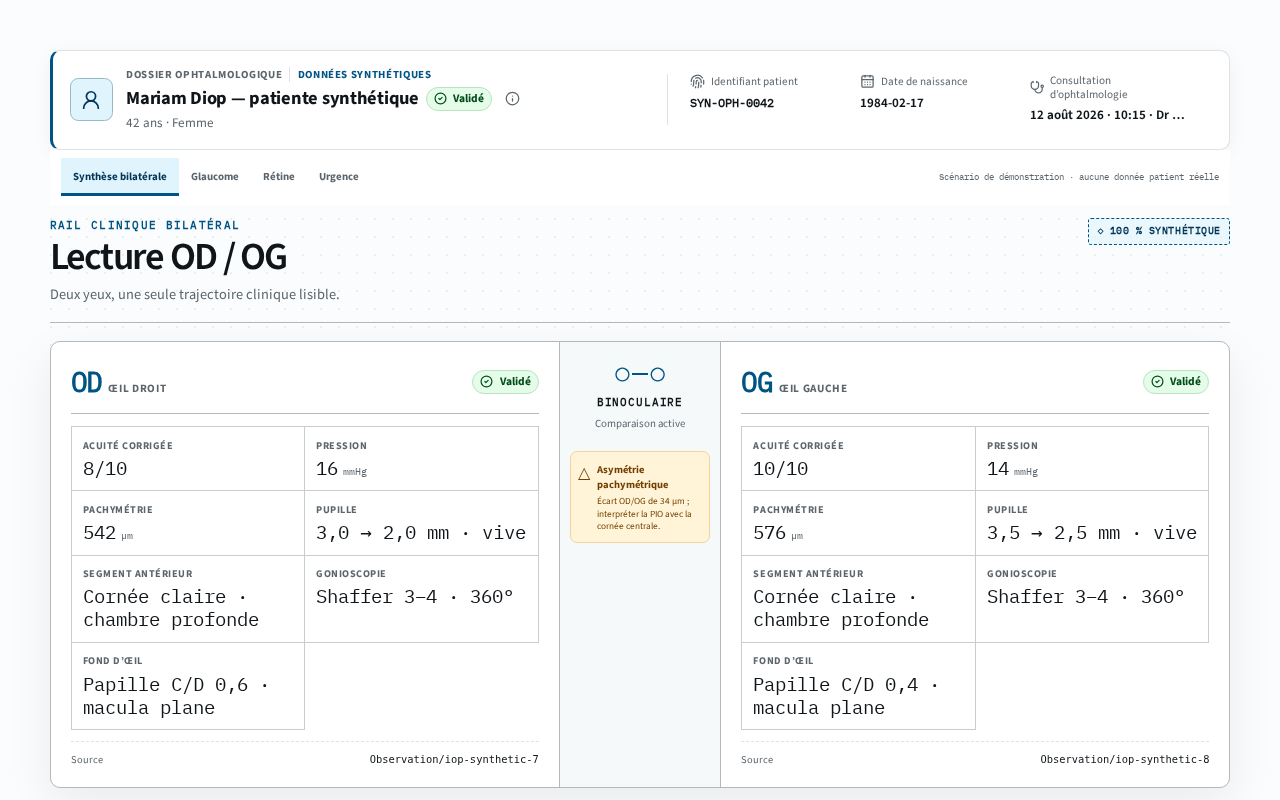
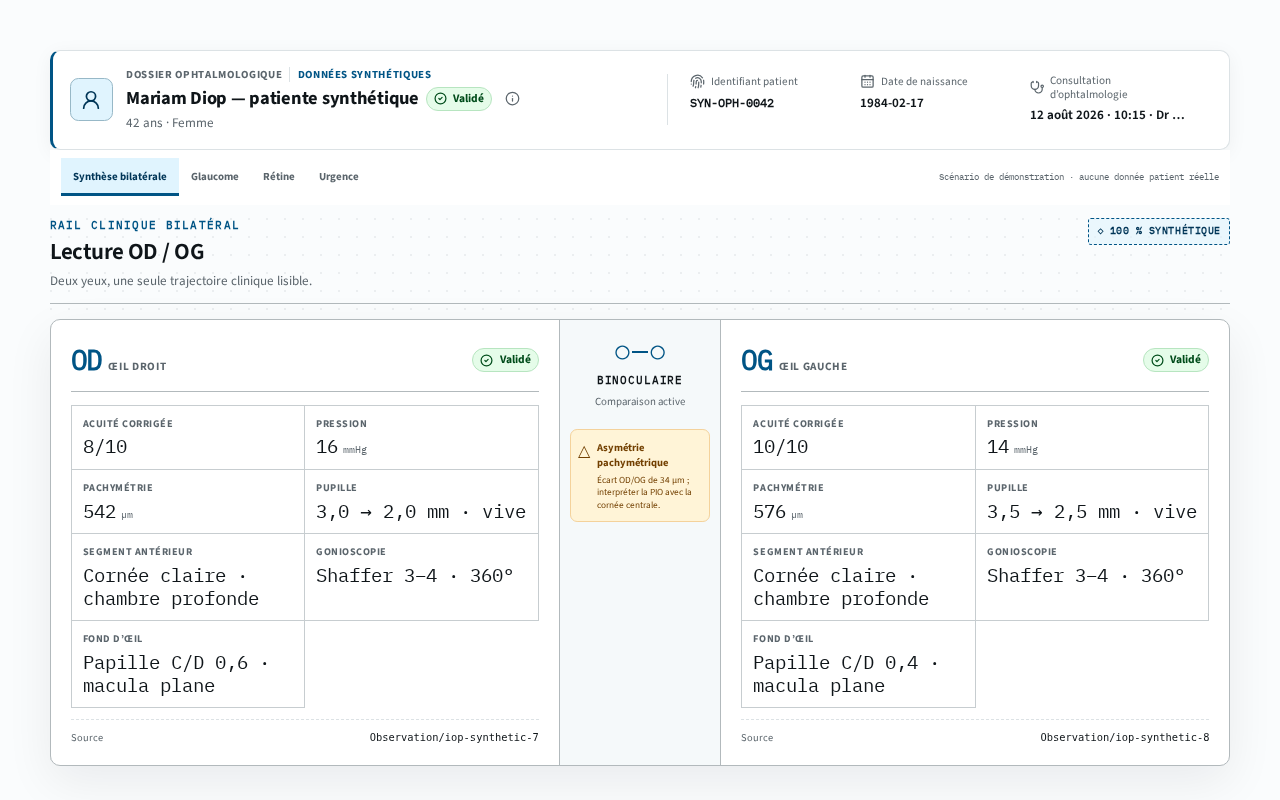
docs(media): improve ophthalmology demo introduction

diff --git a/scripts/capture-launch-media.py b/scripts/capture-launch-media.py
@@ -7,6 +7,7 @@ import argparse
 import shutil
 import subprocess
 import tempfile
+import time
 from pathlib import Path
 
 from playwright.sync_api import Page, sync_playwright
@@ -46,10 +47,12 @@ def capture(base_url: str, output_directory: Path) -> None:
                 record_video_size={"width": 1280, "height": 800},
             )
             page = context.new_page()
+            recording_started_at = time.monotonic()
 
             page.goto(story_url(base_url, "clinical", "light"))
             wait_for_workspace(page)
             page.screenshot(path=str(poster_path), full_page=False)
+            poster_hold_seconds = time.monotonic() - recording_started_at + 0.25
             page.wait_for_timeout(3_000)
 
             page.get_by_role("tab", name="Glaucome").click()
@@ -73,7 +76,10 @@ def capture(base_url: str, output_directory: Path) -> None:
             video_path = Path(video.path())
 
         filter_graph = (
-            "fps=5,scale=960:-2:flags=lanczos,"
+            "[0:v]scale=960:-2:flags=lanczos[recording];"
+            "[1:v]scale=960:-2:flags=lanczos[poster];"
+            f"[recording][poster]overlay=0:0:enable='lt(t,{poster_hold_seconds:.3f})':shortest=1,"
+            "fps=5,"
             "split[frames][palette_source];"
             "[palette_source]palettegen=max_colors=96:stats_mode=diff[palette];"
             "[frames][palette]paletteuse=dither=bayer:bayer_scale=5:diff_mode=rectangle"
@@ -87,8 +93,13 @@ def capture(base_url: str, output_directory: Path) -> None:
                 "-y",
                 "-i",
                 str(video_path),
+                "-loop",
+                "1",
+                "-i",
+                str(poster_path),
                 "-filter_complex",
                 filter_graph,
+                "-shortest",
                 "-loop",
                 "0",
                 str(animation_path),
